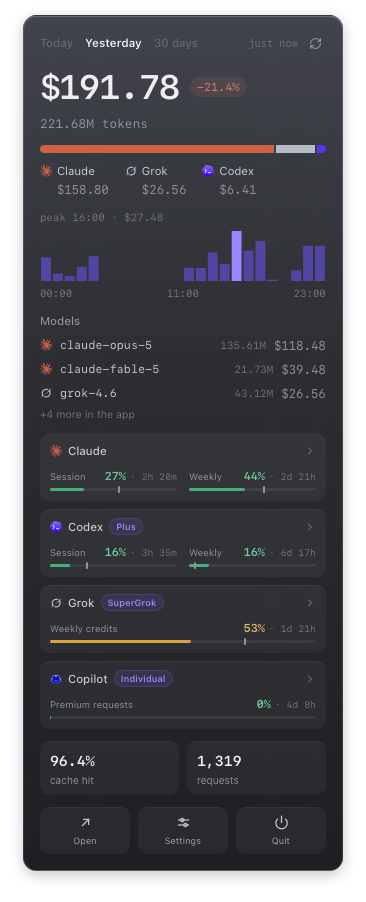
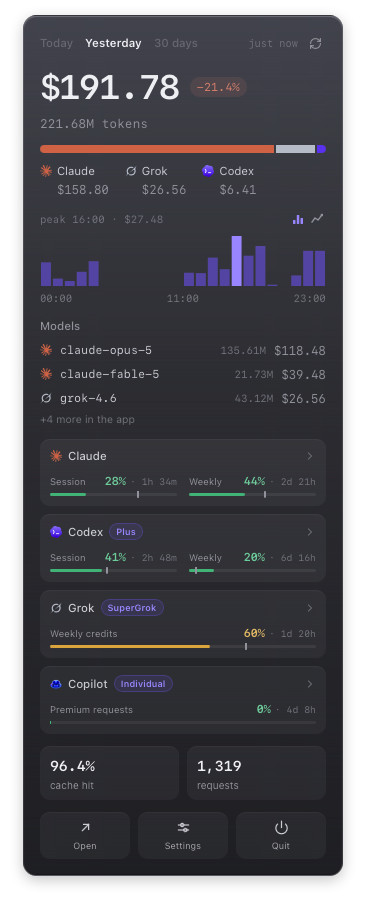
Show both Cost-per-bucket drawings on the README
The Menu Bar Extra section names the Columns / Line control and carries
yesterday's panel in both drawings, so the sparkline the redesign hid
is visible on the page as well as in the app.

diff --git a/README.md b/README.md
@@ -56,12 +56,15 @@ an invoice.
 ## Menu Bar Extra
 
 Choose today, yesterday, or the trailing 30 days. The panel shows tokens, cost,
-change from the previous period, source and model breakdowns, hourly trend,
-cache hit, and requests. Vendor limit cards show remaining windows and reset
-times; Settings controls which cards and collapsed meters appear, and the order
-they stack.
+change from the previous period, source and model breakdowns, Cost per bucket
+as columns or a line, cache hit, and requests. A control on the peak-caption
+row switches the drawing; the choice is remembered. Vendor limit cards show
+remaining windows and reset times; Settings controls which cards and collapsed
+meters appear, and the order they stack.
 
-![TokenLedger's Menu Bar Extra showing yesterday's usage, model breakdown, and live limit cards](docs/menu-bar-extra.png)
+![TokenLedger's Menu Bar Extra with Cost per bucket as a line](docs/menu-bar-extra-line.png)
+
+![TokenLedger's Menu Bar Extra with Cost per bucket as columns](docs/menu-bar-extra.png)
 
 ## Install
 
